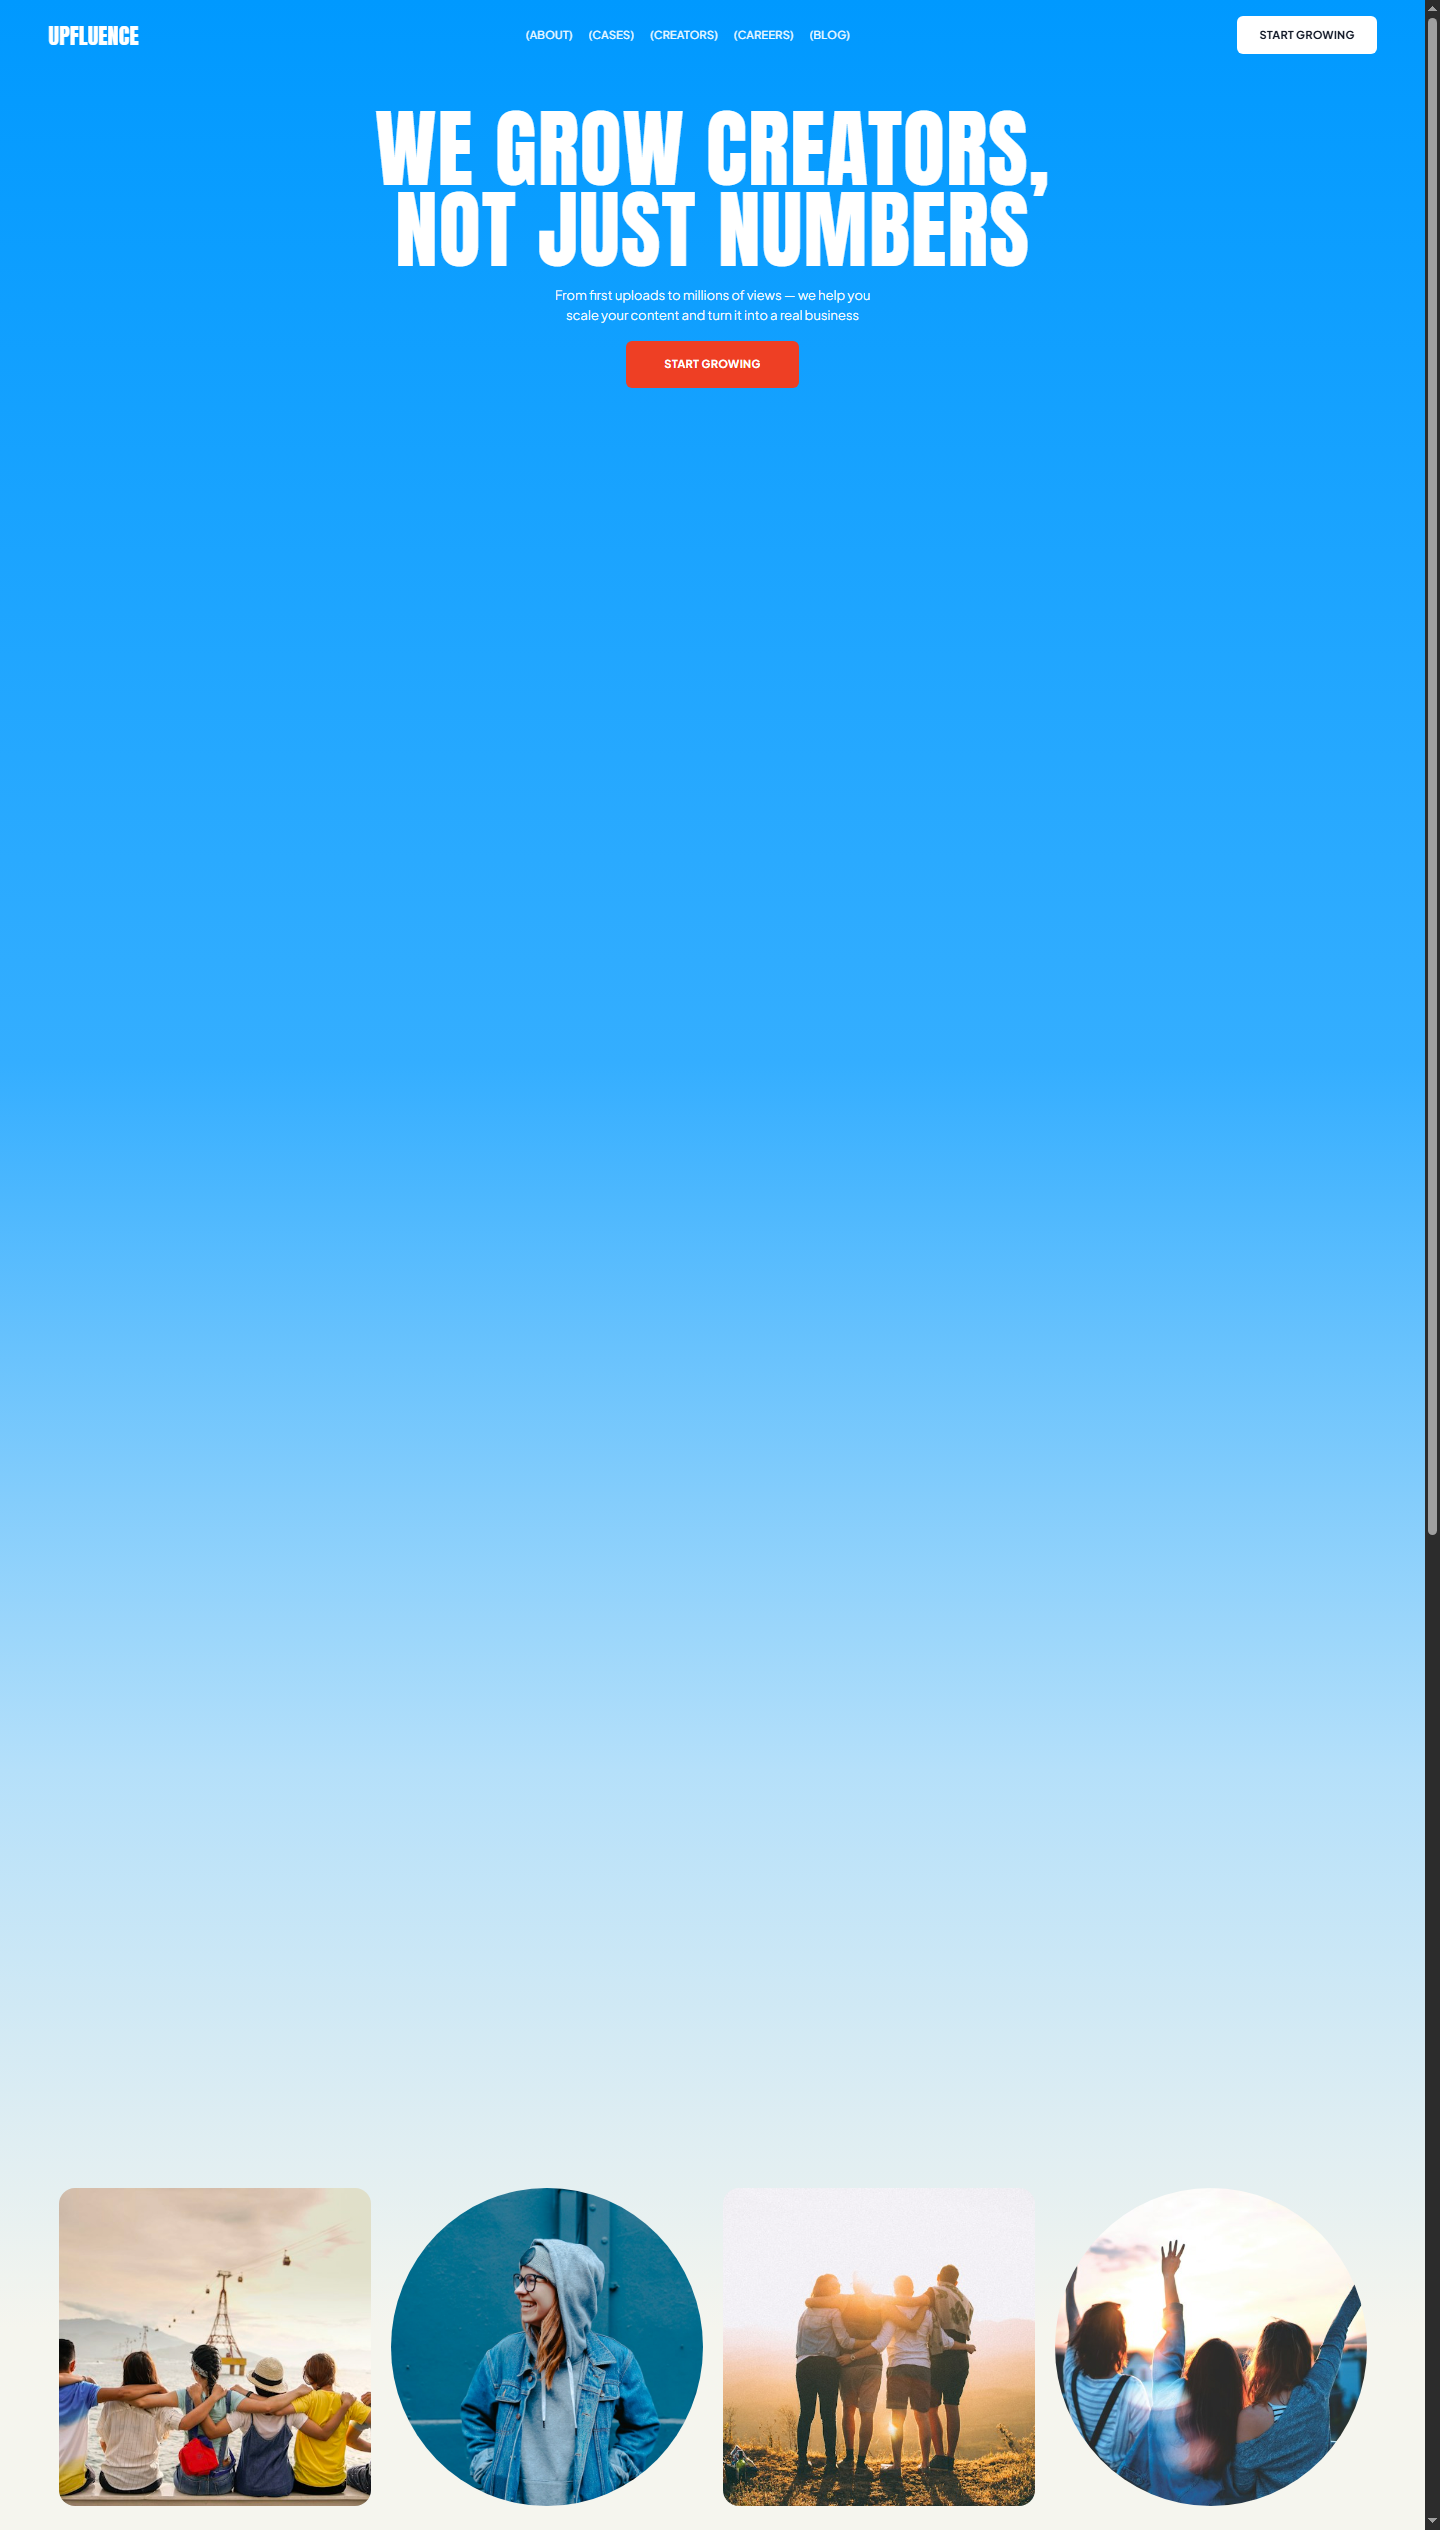
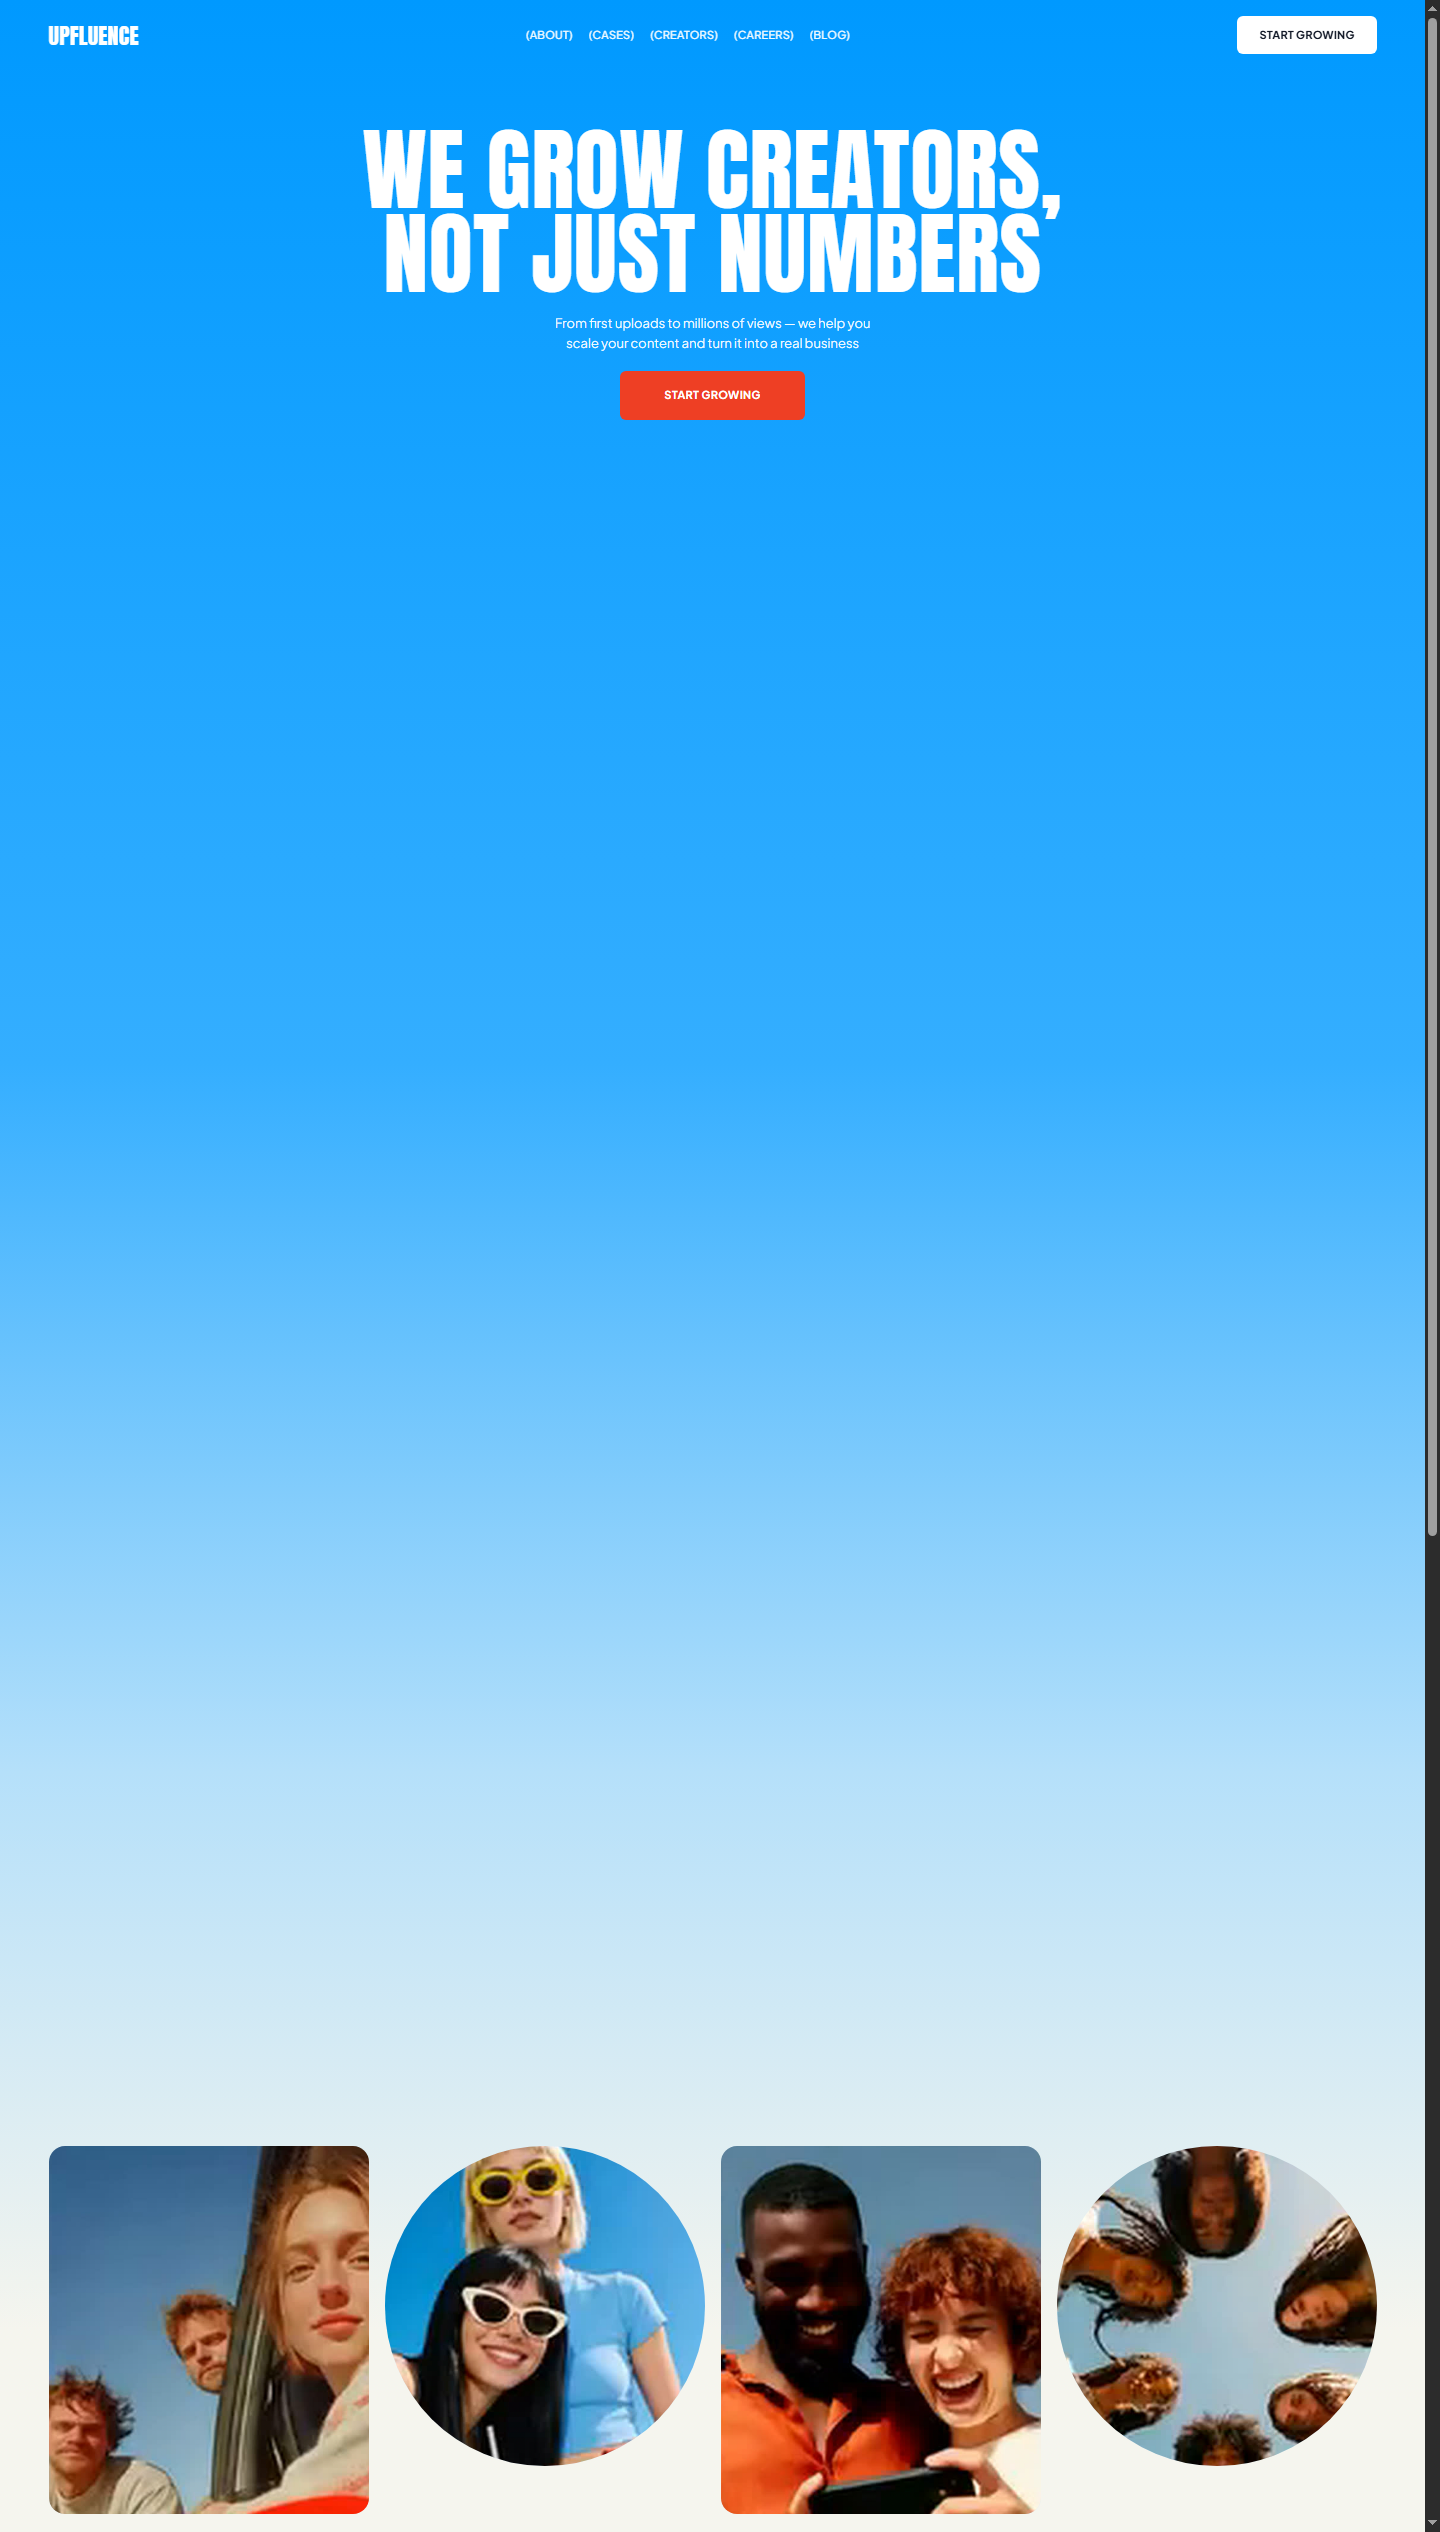
style(creatoragency,voiceai): refine creator card ratios, caller silhouette contrast, and refresh screenshots

Changed region(s): [[0.0312, 0.8431, 0.9688, 0.9992], [0.25, 0.0312, 0.75, 0.1874]]

diff --git a/creatoragency_lagoonblue+cloudwhite+bubblegumpink/styles.css b/creatoragency_lagoonblue+cloudwhite+bubblegumpink/styles.css
@@ -114,7 +114,7 @@ img { display: block; max-width: 100%; }
   background: var(--pink-loud);
   color: #FFFFFF;
   text-decoration: none;
-  padding: 15px 38px;
+  padding: 16px 44px;
   border-radius: 6px;
   font-size: 11px;
   font-weight: 700;
@@ -169,10 +169,10 @@ img { display: block; max-width: 100%; }
 }
 
 .hero-inner {
-  max-width: 1380px;
+  max-width: 1400px;
   height: 100%;
   margin: 0 auto;
-  padding: 96px 36px 24px;
+  padding: 128px 36px 18px;
   display: flex;
   flex-direction: column;
   justify-content: space-between;
@@ -183,14 +183,13 @@ img { display: block; max-width: 100%; }
   text-align: center;
   display: grid;
   justify-items: center;
-  gap: 16px;
-  margin-top: 12px;
+  gap: 18px;
 }
 
 .hero-title {
   margin: 0;
   font-family: var(--font-display);
-  font-size: clamp(3rem, 6.2vw, 5.4rem);
+  font-size: clamp(2.9rem, 6.4vw, 5.6rem);
   font-weight: 400;
   line-height: 0.94;
   letter-spacing: 0.01em;
@@ -208,19 +207,25 @@ img { display: block; max-width: 100%; }
   width: 100%;
   display: grid;
   grid-template-columns: repeat(4, minmax(0, 1fr));
-  gap: 20px;
-  align-items: end;
+  gap: 16px;
+  align-items: start;
 }
 
 .media-card {
   margin: 0;
   overflow: hidden;
-  aspect-ratio: 1 / 1.02;
   background: #DCEEF3;
 }
 
-.media-card--rect { border-radius: 16px; }
-.media-card--circle { border-radius: 50%; }
+.media-card--rect {
+  border-radius: 16px;
+  aspect-ratio: 1 / 1.15;
+}
+
+.media-card--circle {
+  border-radius: 50%;
+  aspect-ratio: 1 / 1;
+}
 
 .media-card img {
   width: 100%;
@@ -229,7 +234,11 @@ img { display: block; max-width: 100%; }
   transition: transform 320ms var(--ease);
 }
 
-.media-card:hover img { transform: scale(1.03); }
+.media-card--rect img { transform: scale(1.04); }
+.media-card--rect:hover img { transform: scale(1.07); }
+
+.media-card--circle img { transform: scale(1.12); }
+.media-card--circle:hover img { transform: scale(1.15); }
 
 /* Below the fold */
 .section { padding: 96px 0; }

diff --git a/creatoragency_skyblue+cloudywhite+amberred/styles.css b/creatoragency_skyblue+cloudywhite+amberred/styles.css
@@ -113,7 +113,7 @@ img { display: block; max-width: 100%; }
   background: var(--amber-red);
   color: #FFFFFF;
   text-decoration: none;
-  padding: 15px 38px;
+  padding: 16px 44px;
   border-radius: 6px;
   font-size: 11px;
   font-weight: 700;
@@ -168,10 +168,10 @@ img { display: block; max-width: 100%; }
 }
 
 .hero-inner {
-  max-width: 1380px;
+  max-width: 1400px;
   height: 100%;
   margin: 0 auto;
-  padding: 96px 36px 24px;
+  padding: 128px 36px 18px;
   display: flex;
   flex-direction: column;
   justify-content: space-between;
@@ -182,14 +182,13 @@ img { display: block; max-width: 100%; }
   text-align: center;
   display: grid;
   justify-items: center;
-  gap: 16px;
-  margin-top: 12px;
+  gap: 18px;
 }
 
 .hero-title {
   margin: 0;
   font-family: var(--font-display);
-  font-size: clamp(3rem, 6.2vw, 5.4rem);
+  font-size: clamp(2.9rem, 6.4vw, 5.6rem);
   font-weight: 400;
   line-height: 0.94;
   letter-spacing: 0.01em;
@@ -207,19 +206,25 @@ img { display: block; max-width: 100%; }
   width: 100%;
   display: grid;
   grid-template-columns: repeat(4, minmax(0, 1fr));
-  gap: 20px;
-  align-items: end;
+  gap: 16px;
+  align-items: start;
 }
 
 .media-card {
   margin: 0;
   overflow: hidden;
-  aspect-ratio: 1 / 1.02;
   background: #DCEEF9;
 }
 
-.media-card--rect { border-radius: 16px; }
-.media-card--circle { border-radius: 50%; }
+.media-card--rect {
+  border-radius: 16px;
+  aspect-ratio: 1 / 1.15;
+}
+
+.media-card--circle {
+  border-radius: 50%;
+  aspect-ratio: 1 / 1;
+}
 
 .media-card img {
   width: 100%;
@@ -228,7 +233,11 @@ img { display: block; max-width: 100%; }
   transition: transform 320ms var(--ease);
 }
 
-.media-card:hover img { transform: scale(1.03); }
+.media-card--rect img { transform: scale(1.04); }
+.media-card--rect:hover img { transform: scale(1.07); }
+
+.media-card--circle img { transform: scale(1.12); }
+.media-card--circle:hover img { transform: scale(1.15); }
 
 /* Below the fold */
 .section { padding: 96px 0; }

diff --git a/voiceai_sapphireblue+oceanblue+neonjade/styles.css b/voiceai_sapphireblue+oceanblue+neonjade/styles.css
@@ -182,6 +182,7 @@ img { display: block; max-width: 100%; }
   height: 100%;
   object-fit: cover;
   object-position: 52% 24%;
+  filter: brightness(0.68) contrast(1.45);
 }
 
 .blue-grid {
@@ -197,6 +198,7 @@ img { display: block; max-width: 100%; }
   position: relative;
   z-index: 5;
   height: 100%;
+  padding-top: 48px;
   display: flex;
   flex-direction: column;
   justify-content: flex-end;
@@ -205,7 +207,7 @@ img { display: block; max-width: 100%; }
 .hero-headline-wrap {
   margin-top: auto;
   margin-bottom: auto;
-  padding: 80px 36px 0;
+  padding: 0 36px;
 }
 
 .hero-title {
@@ -431,7 +433,7 @@ h2 {
   .menu-toggle { display: inline-flex; }
   .hero { height: auto; min-height: 100dvh; }
   .hero-main { min-height: 100dvh; justify-content: space-between; }
-  .hero-headline-wrap { padding: 112px 20px 48px; }
+  .hero-headline-wrap { padding: 64px 20px 48px; }
   .hero-bottom-slabs { grid-template-columns: 1fr; }
   .call-form { gap: 20px; }
   .compare-grid, .proof-grid, .demo-split { grid-template-columns: 1fr; }
